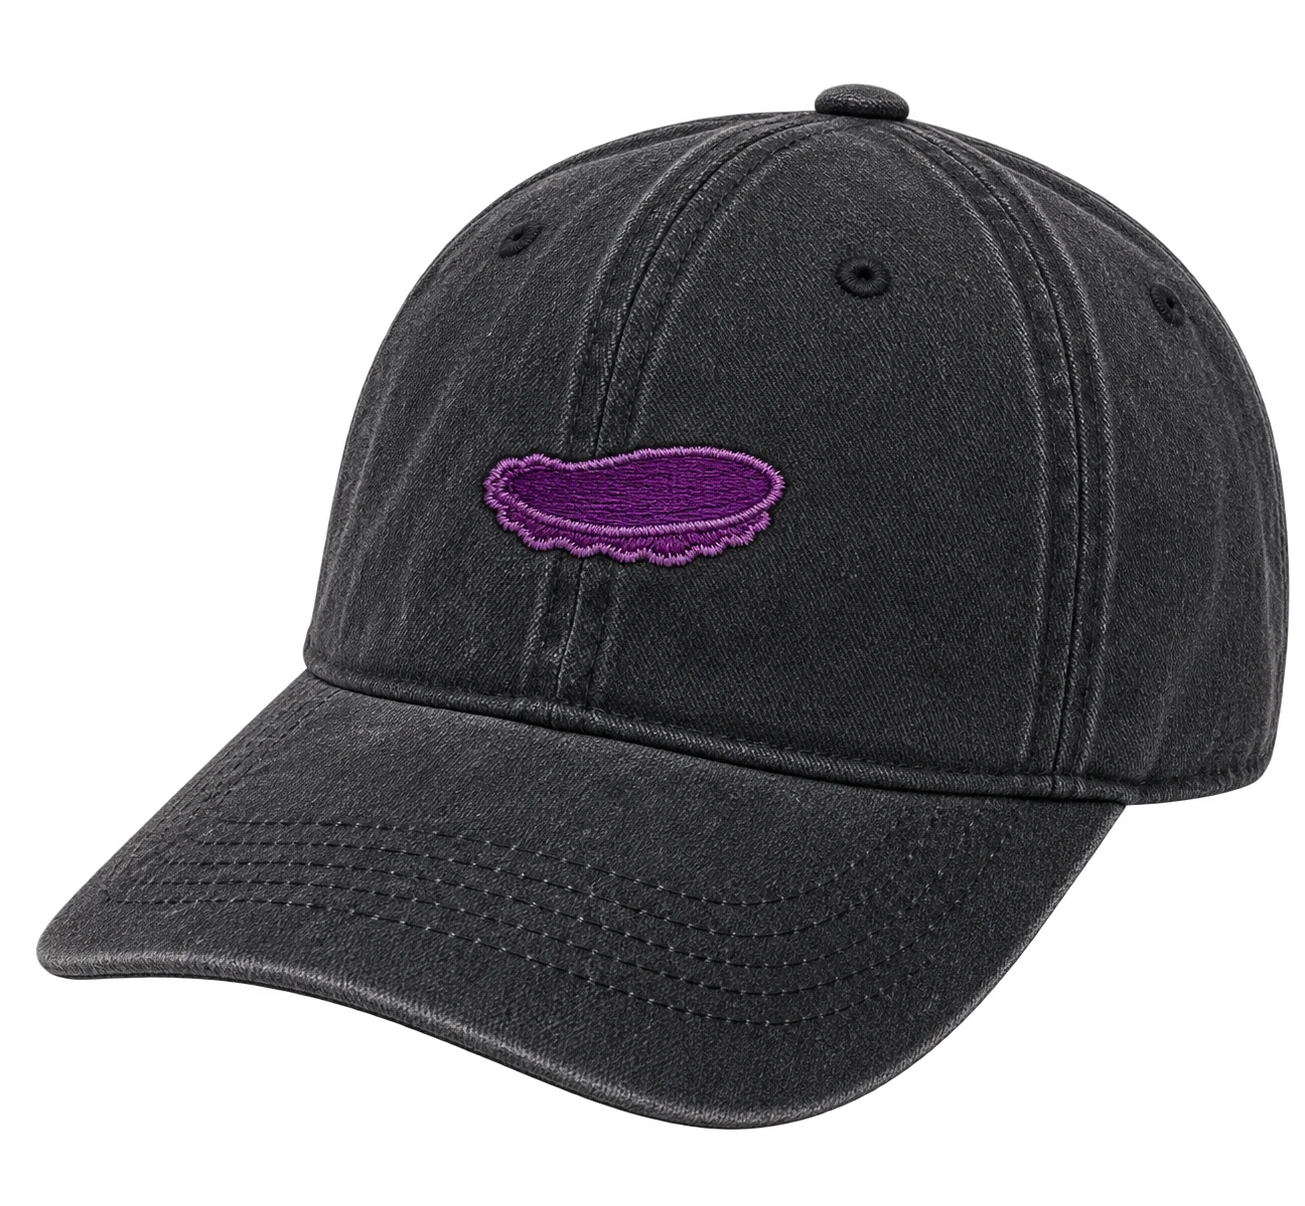
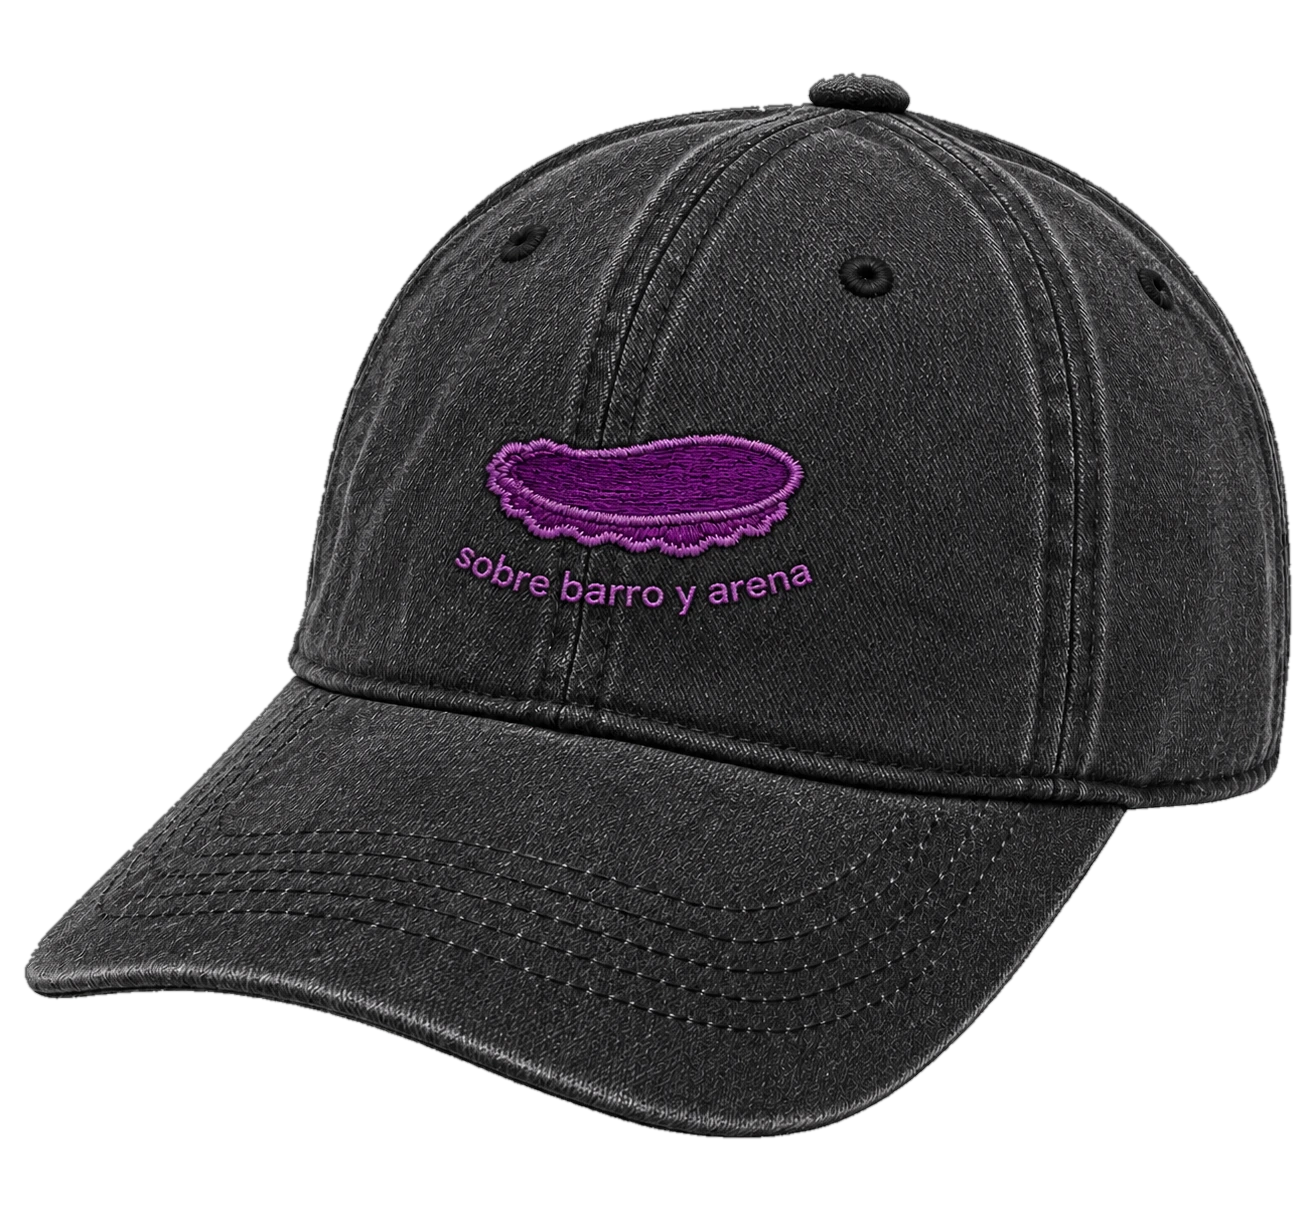
Fondo: usar la versión de la gorra con el bordado de Micaela
La imagen venía con el cuadriculado de transparencia pegado; se recortó la
gorra y se sacó la frase superpuesta, porque ya viene bordada.

Claude-Session: https://claude.ai/code/session_01Qm5YFXMrmpHggq2K32ktW1

Changed region(s): [[0.0, 0.0614, 1.0, 0.9519]]

diff --git a/fondo/assets/gorra-svg.html b/fondo/assets/gorra-svg.html
@@ -1,23 +1,4 @@
-<svg class="zoom-svg gorra-svg" viewBox="0 0 1305 1206" preserveAspectRatio="xMidYMid meet" xmlns="http://www.w3.org/2000/svg" aria-hidden="true">
-<defs>
-  <!-- Puntada satinada: hilos finos en diagonal, con luz y sombra -->
-  <pattern id="gorra-satin" patternUnits="userSpaceOnUse" width="2.4" height="2.4" patternTransform="rotate(68)">
-    <rect width="2.4" height="2.4" fill="#7B2F90" />
-    <rect width="1.3" height="2.4" fill="#A257B8" />
-    <rect x="0.35" width="0.45" height="2.4" fill="#C489D4" opacity="0.7" />
-  </pattern>
-  <filter id="gorra-thread" x="-5%" y="-30%" width="110%" height="160%">
-    <feDropShadow dx="0.6" dy="1.4" stdDeviation="0.9" flood-color="#000" flood-opacity="0.75" />
-  </filter>
-  <!-- Curva suave que sigue el frente de la gorra -->
-  <path id="gorra-line" d="M 474 602 Q 636 618 798 598" />
-</defs>
-
-<!-- La gorra con Batatita bordada -->
-<image href="fondo/assets/gorra.webp" x="0" y="0" width="1305" height="1206" />
-
-<!-- "sobre barro y arena", bordado en imprenta debajo de Batatita -->
-<text class="gorra-phrase" filter="url(#gorra-thread)">
-  <textPath href="#gorra-line" startOffset="50%">sobre barro y arena</textPath>
-</text>
+<svg class="zoom-svg gorra-svg" viewBox="0 0 1305 1205" preserveAspectRatio="xMidYMid meet" xmlns="http://www.w3.org/2000/svg" aria-hidden="true">
+<!-- La gorra con Batatita y "sobre barro y arena" bordados -->
+<image href="fondo/assets/gorra.webp" x="0" y="0" width="1305" height="1205" />
 </svg>

diff --git a/fondo.js b/fondo.js
@@ -181,7 +181,7 @@
         {
           id: "gorra", es: "Gorra", en: "Cap",
           kind: "zoom", thumb: "fondo/assets/thumbs/gorra.webp",
-          svg: "fondo/assets/gorra-svg.html", ratio: 1305 / 1206
+          svg: "fondo/assets/gorra-svg.html", ratio: 1305 / 1205
         },
         { id: "postal", es: "Postal", en: "Postcard", kind: "postal", thumb: "fondo/assets/thumbs/postal-batatita.webp", file: "fondo/assets/postales/postal-batatita.png" }
       ]

diff --git a/fondo.css b/fondo.css
@@ -693,19 +693,3 @@
   }
 
 }
-
-
-/* Gorra de Batatita: la frase bordada en imprenta, con la letra del portfolio */
-
-.gorra-phrase {
-  font-family: "DM Sans", sans-serif;
-  font-size: 30px;
-  font-weight: 600;
-  letter-spacing: 0.04em;
-
-  fill: url(#gorra-satin);
-  stroke: #4A1458;
-  stroke-width: 0.8;
-  paint-order: stroke;
-  text-anchor: middle;
-}
